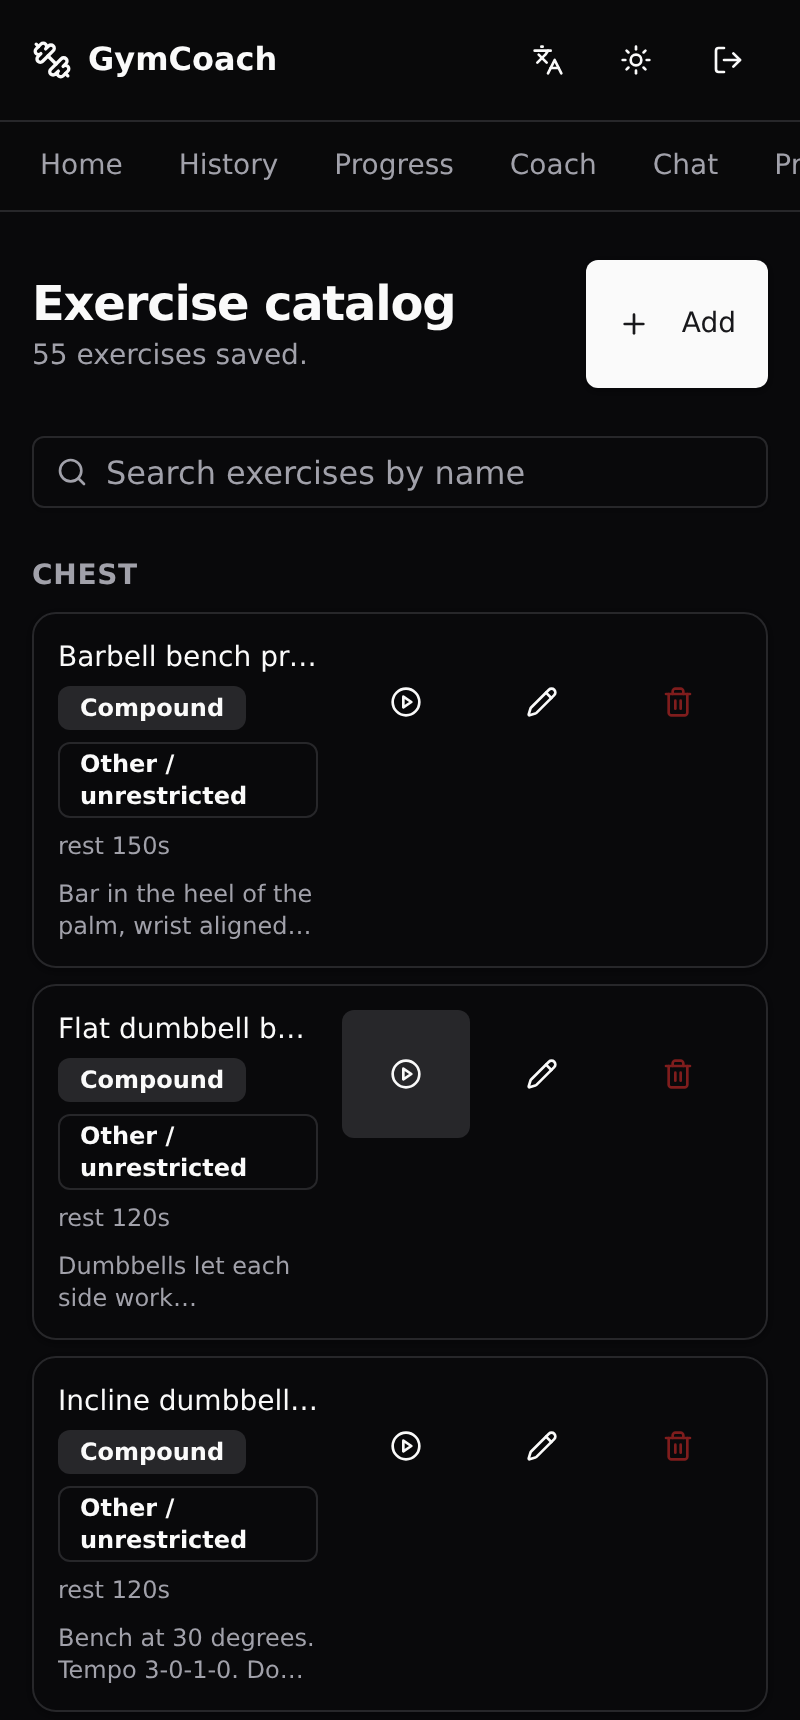
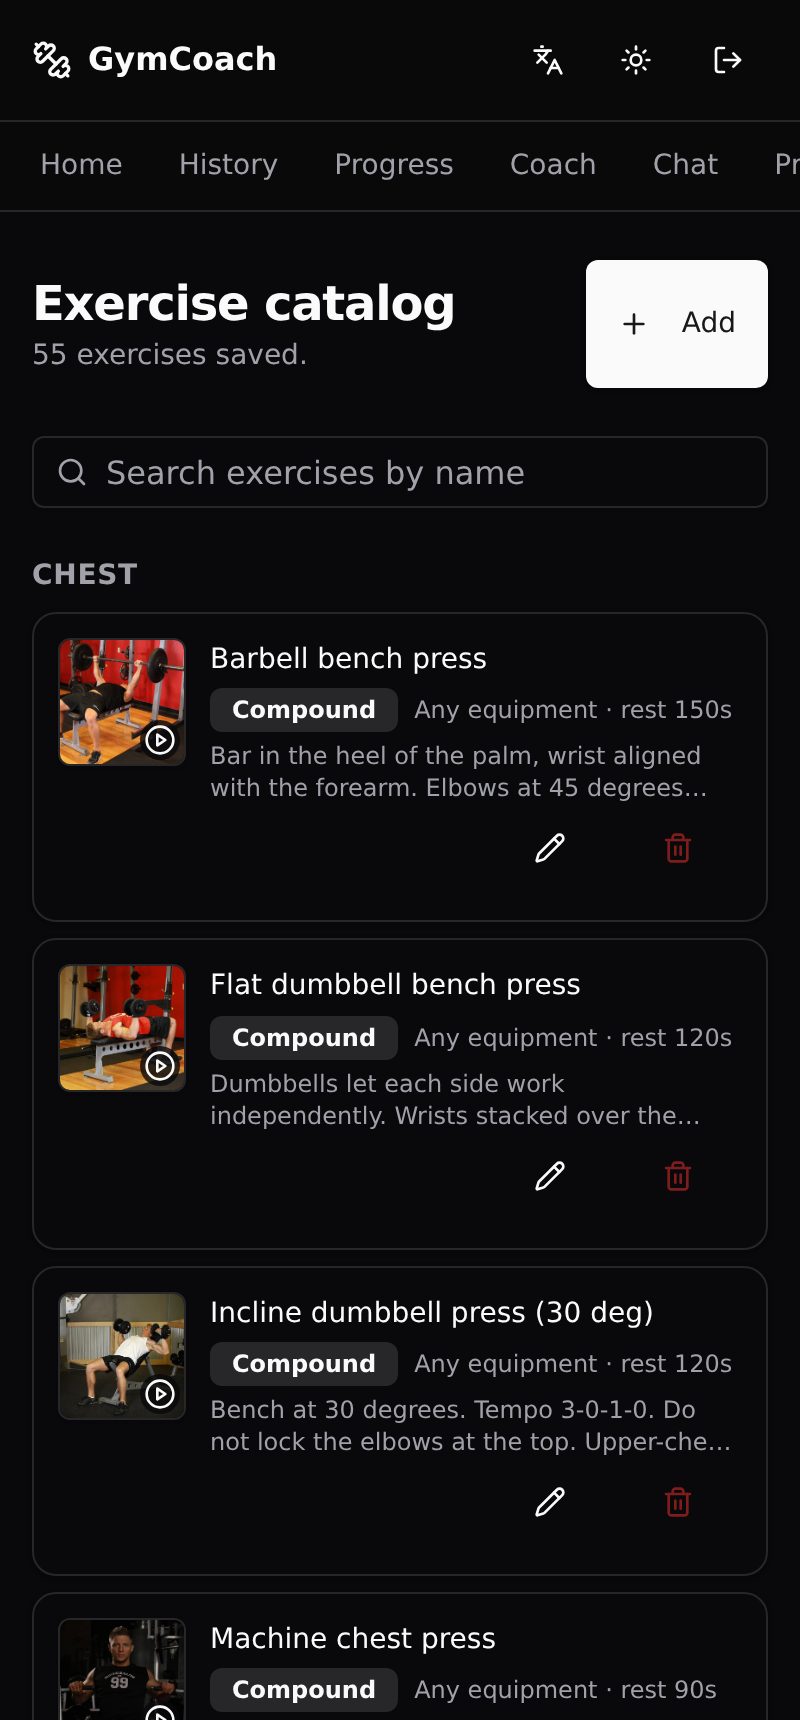
fix(exercises): declutter the catalog card at mobile width (#330) (#336)
At 400px the catalog card gave the exercise name ~150px because the three
64px tap targets (the `tap` token) sat in a trailing column, so "Barbell
bench press" truncated to "Barbell bench pr...". The "Other / unrestricted"
outline badge wrapped to two lines and outweighed the name, and the ghost
technique button rendered as a large grey box on whichever card the resting
mouse pointer happened to hover.

- Lead each card with a fixed 64x64 technique slot: the start frame as a
  thumbnail when the catalog knows the exercise, a muted play icon at the
  same size when it does not. Every card shares one leading column and one
  row alignment.
- Let the name take the remaining width and wrap to two lines (line-clamp-2)
  instead of truncating.
- Replace the equipment badge with a compact plain-text label from a new
  `equipmentTypesShort` map (en/ru/fr); "Any equipment" instead of
  "Other / unrestricted". The long form stays for the form select and the
  media dialog. Equipment and rest form one non-wrapping unit so the
  separator never orphans.
- Move edit/delete to a trailing full-width row on mobile; inline from sm.
- scripts/screenshots.mjs parks the pointer before each capture so a hover
  state can never paint into the README again.
- Re-shot docs/screenshots/catalog.png.

Claude-Session: https://claude.ai/code/session_01GFnkrDYab4mFtJyaHeFUEF

diff --git a/components/exercises/exercises-view.tsx b/components/exercises/exercises-view.tsx
@@ -121,31 +121,41 @@ function ExerciseRow({ exercise, onEdit }: { exercise: Exercise; onEdit: () => v
   const exerciseName = useExerciseName();
   const displayName = exerciseName(exercise.name);
 
+  // Mobile-first card (issue #330). Every tap target is 64px (the `tap` token),
+  // so three of them in a trailing column would leave the name ~150px at 400px
+  // wide and truncate it first. Instead: a fixed 64px technique slot leads the
+  // row, the name takes the remaining width and may wrap to two lines, the
+  // equipment label is compact plain text, and edit/delete sit on their own
+  // full-width row below (inline again from `sm`).
   return (
     <Card>
-      <CardContent className="flex items-start justify-between gap-3 p-3">
-        <div className="min-w-0 flex-1">
-          <p className="truncate text-sm font-medium">{displayName}</p>
-          <div className="mt-1 flex flex-wrap items-center gap-1.5 text-xs text-muted-foreground">
+      <CardContent className="flex flex-wrap items-start gap-x-3 gap-y-1 p-3 sm:flex-nowrap">
+        <ExerciseMediaDialog
+          exerciseName={exercise.name}
+          displayName={displayName}
+          equipmentType={exercise.equipmentType}
+          compact
+        />
+        <div className="min-w-0 flex-1 basis-40 py-0.5">
+          <p className="line-clamp-2 text-sm font-medium leading-snug">{displayName}</p>
+          <div className="mt-1 flex flex-wrap items-center gap-x-2 gap-y-1 text-xs text-muted-foreground">
             <Badge variant="secondary">
               {t(`categories.${exerciseCategoryMessageKeys[exercise.category]}`)}
             </Badge>
-            <Badge variant="outline">
-              {t(`equipmentTypes.${equipmentTypeMessageKeys[exercise.equipmentType]}`)}
-            </Badge>
-            <span>{t('restSeconds', { seconds: exercise.defaultRestSec })}</span>
+            {/* One non-wrapping unit, so the separator never orphans at a line end. */}
+            <span className="whitespace-nowrap">
+              <span>
+                {t(`equipmentTypesShort.${equipmentTypeMessageKeys[exercise.equipmentType]}`)}
+              </span>
+              <span aria-hidden="true"> &middot; </span>
+              <span>{t('restSeconds', { seconds: exercise.defaultRestSec })}</span>
+            </span>
           </div>
           {exercise.notes && (
-            <p className="mt-2 line-clamp-2 text-xs text-muted-foreground">{exercise.notes}</p>
+            <p className="mt-1 line-clamp-2 text-xs text-muted-foreground">{exercise.notes}</p>
           )}
         </div>
-        <div className="flex flex-shrink-0 items-center gap-1">
-          <ExerciseMediaDialog
-            exerciseName={exercise.name}
-            displayName={displayName}
-            equipmentType={exercise.equipmentType}
-            compact
-          />
+        <div className="-mb-2 -mr-2 -mt-4 flex w-full shrink-0 items-center justify-end sm:-mt-2 sm:w-auto">
           <Button
             variant="ghost"
             size="icon"

diff --git a/components/exercises/exercises-view.test.tsx b/components/exercises/exercises-view.test.tsx
@@ -74,3 +74,49 @@ describe('ExercisesView search (issue #238)', () => {
     expect(screen.queryByLabelText('Search exercises by name')).not.toBeInTheDocument();
   });
 });
+
+describe('ExercisesView catalog card at mobile width (issue #330)', () => {
+  it('renders the full name in a wrapping (not truncating) element', () => {
+    render(
+      <ExercisesView
+        exercises={[exercise({ id: 'e1', name: 'Incline dumbbell bench press with a pause' })]}
+      />,
+    );
+    const name = screen.getByText('Incline dumbbell bench press with a pause');
+    expect(name).toHaveClass('line-clamp-2');
+    expect(name).not.toHaveClass('truncate');
+  });
+
+  it('labels the equipment with the compact form, not the long badge text', () => {
+    render(<ExercisesView exercises={[exercise({ id: 'e1', equipmentType: 'OTHER' })]} />);
+    // Equipment and rest form one non-wrapping unit, so the separator cannot orphan.
+    const label = screen.getByText('Any equipment');
+    expect(label.parentElement).toHaveClass('whitespace-nowrap');
+    expect(label.parentElement).toHaveTextContent('Any equipment · rest 120s');
+    expect(screen.queryByText('Other / unrestricted')).not.toBeInTheDocument();
+  });
+
+  it('gives every card the same fixed-size technique slot, with or without media', () => {
+    render(
+      <ExercisesView
+        exercises={[
+          exercise({ id: 'e1', name: 'Barbell Bench Press' }),
+          exercise({ id: 'e2', name: 'Future custom movement' }),
+        ]}
+      />,
+    );
+    const withMedia = screen.getByRole('button', { name: 'View technique for Barbell Bench Press' });
+    const withoutMedia = screen.getByRole('button', {
+      name: 'View technique for Future custom movement',
+    });
+    for (const slot of [withMedia, withoutMedia]) {
+      expect(slot).toHaveClass('size-16');
+      expect(slot).toHaveClass('min-h-tap');
+      expect(slot).toHaveClass('min-w-tap');
+    }
+    // The slot shows the start frame when the catalog knows the exercise and
+    // stays the same size (icon only) when it does not.
+    expect(withMedia.querySelector('img')).not.toBeNull();
+    expect(withoutMedia.querySelector('img')).toBeNull();
+  });
+});

diff --git a/components/exercises/exercise-media-dialog.tsx b/components/exercises/exercise-media-dialog.tsx
@@ -61,15 +61,34 @@ export function ExerciseMediaDialog({
     <Dialog open={open} onOpenChange={changeOpen}>
       <DialogTrigger asChild>
         {compact ? (
+          // A fixed 64px slot whether or not media exists, so catalog cards
+          // share one leading column and one row height (issue #330). With
+          // media the start frame is the thumbnail; without it the slot holds
+          // a muted play icon at the same size.
           <Button
             type="button"
-            variant="ghost"
-            size="icon"
-            className="min-h-tap min-w-tap"
+            variant="outline"
+            className="relative size-16 min-h-tap min-w-tap shrink-0 overflow-hidden p-0"
             aria-label={t('open', { name: displayName })}
             title={t('button')}
           >
-            <CirclePlay className="size-4" />
+            {media ? (
+              <>
+                <Image
+                  src={media.frames[0]}
+                  alt=""
+                  fill
+                  unoptimized
+                  sizes="64px"
+                  className="object-cover"
+                />
+                <span className="absolute bottom-0.5 right-0.5 rounded-full bg-background/80 p-0.5">
+                  <CirclePlay className="size-4" />
+                </span>
+              </>
+            ) : (
+              <CirclePlay className="size-4 text-muted-foreground" />
+            )}
           </Button>
         ) : (
           <Button

diff --git a/messages/ru/exercises.ts b/messages/ru/exercises.ts
@@ -86,4 +86,13 @@ export const exercises = {
     cardio: 'Кардиооборудование',
     other: 'Другое / без ограничений',
   },
+  equipmentTypesShort: {
+    dumbbell: 'Гантели',
+    barbell: 'Штанга',
+    machine: 'Тренажёр',
+    cable: 'Блок',
+    bodyweight: 'Свой вес',
+    cardio: 'Кардиотренажёр',
+    other: 'Любое оборудование',
+  },
 } satisfies MessageShape<typeof english>;

diff --git a/messages/en/exercises.ts b/messages/en/exercises.ts
@@ -83,4 +83,15 @@ export const exercises = {
     cardio: 'Cardio equipment',
     other: 'Other / unrestricted',
   },
+  // Compact forms for the catalog card, where the label shares a line with
+  // the category and rest time at mobile width (issue #330).
+  equipmentTypesShort: {
+    dumbbell: 'Dumbbells',
+    barbell: 'Barbell',
+    machine: 'Machine',
+    cable: 'Cable',
+    bodyweight: 'Bodyweight',
+    cardio: 'Cardio machine',
+    other: 'Any equipment',
+  },
 };

diff --git a/messages/fr/exercises.ts b/messages/fr/exercises.ts
@@ -87,4 +87,13 @@ export const exercises = {
     cardio: 'Matériel cardio',
     other: 'Autre / sans contrainte',
   },
+  equipmentTypesShort: {
+    dumbbell: 'Haltères',
+    barbell: 'Barre',
+    machine: 'Machine',
+    cable: 'Poulie',
+    bodyweight: 'Poids de corps',
+    cardio: 'Machine cardio',
+    other: 'Tout matériel',
+  },
 } satisfies MessageShape<typeof english>;
